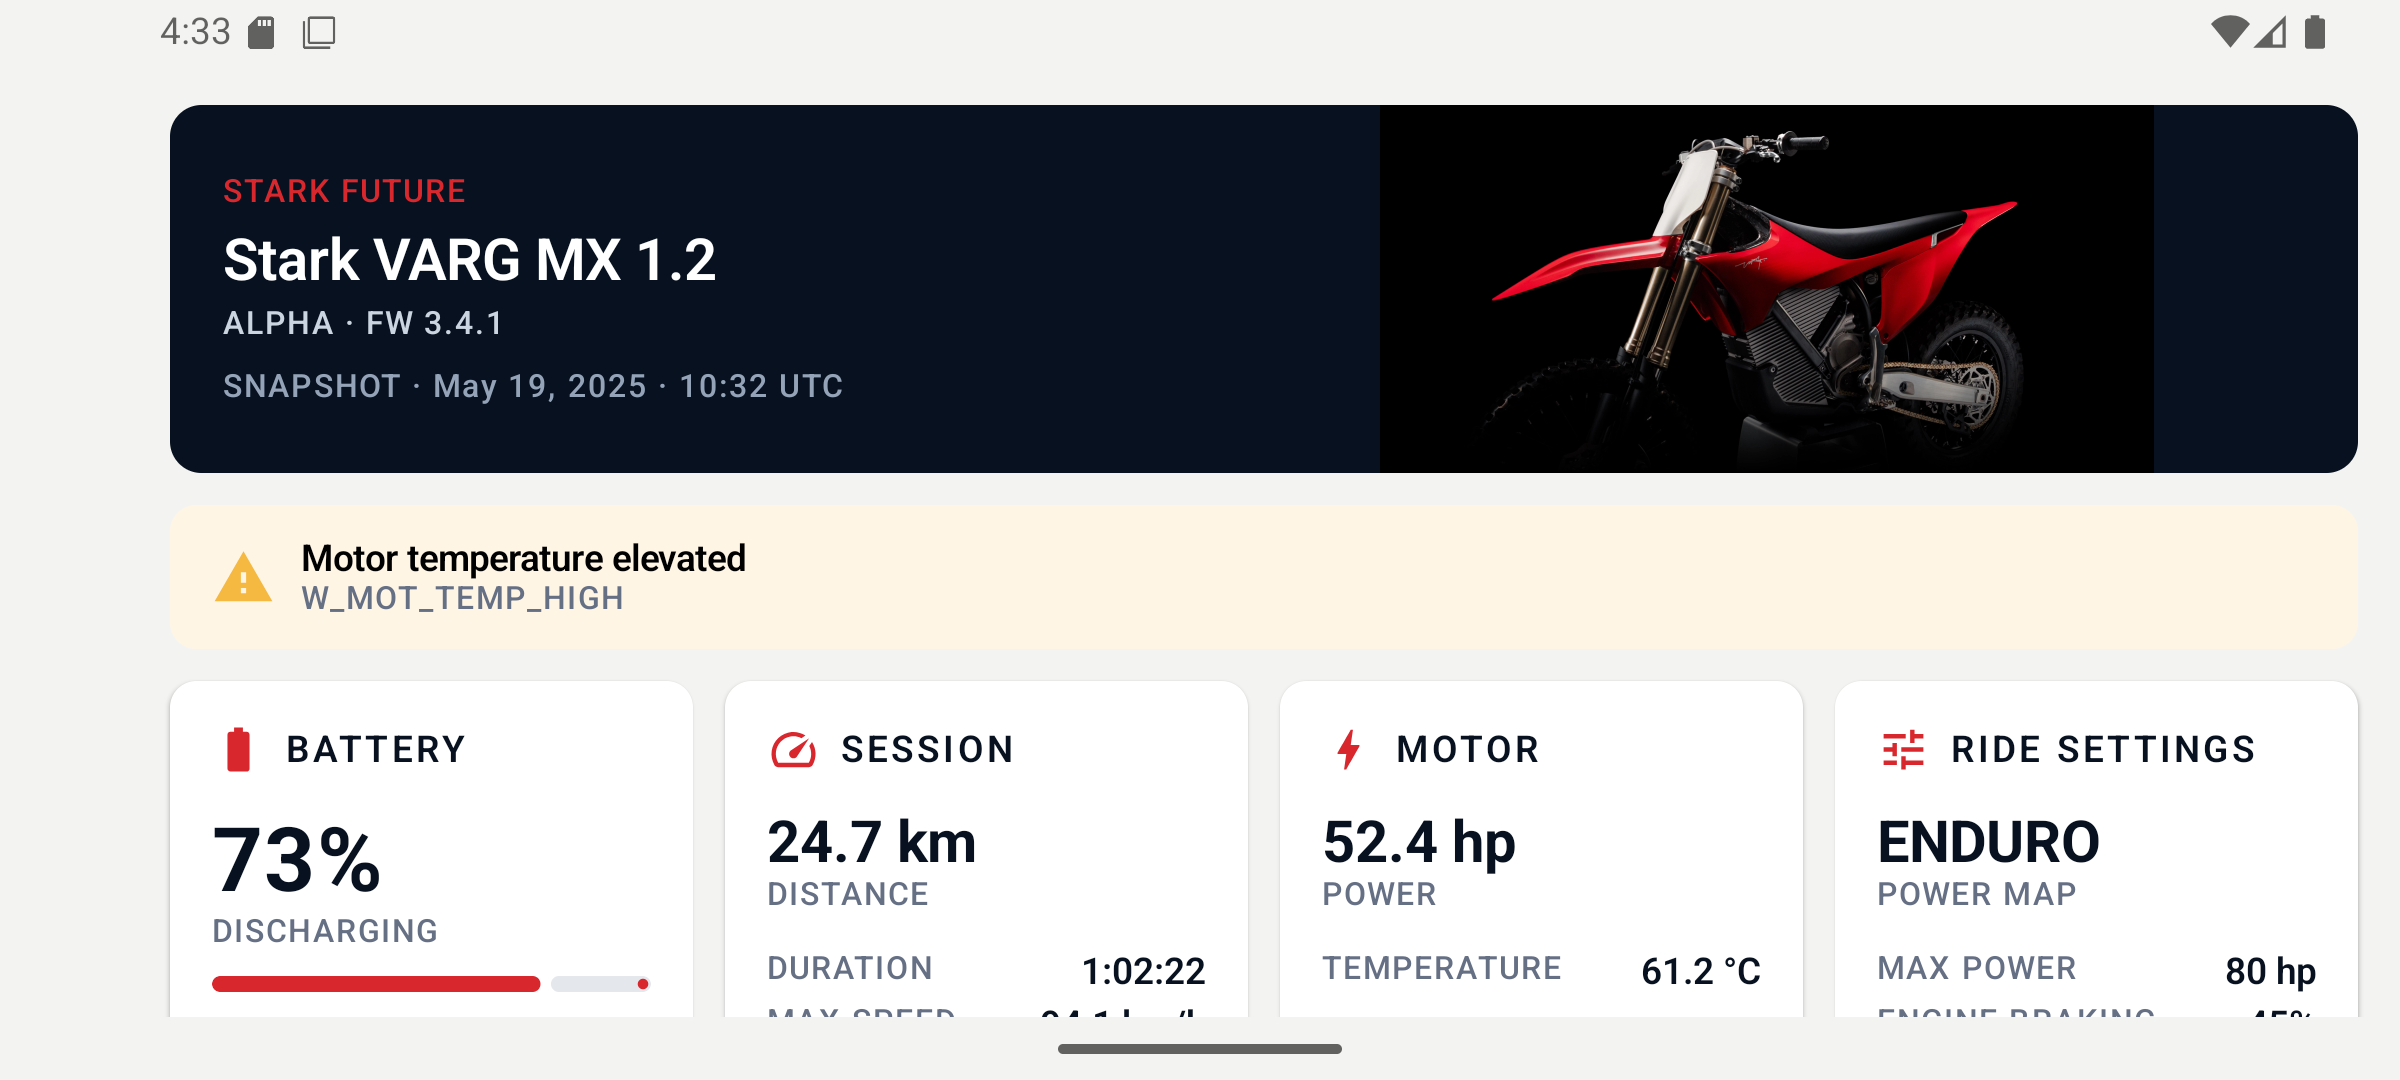
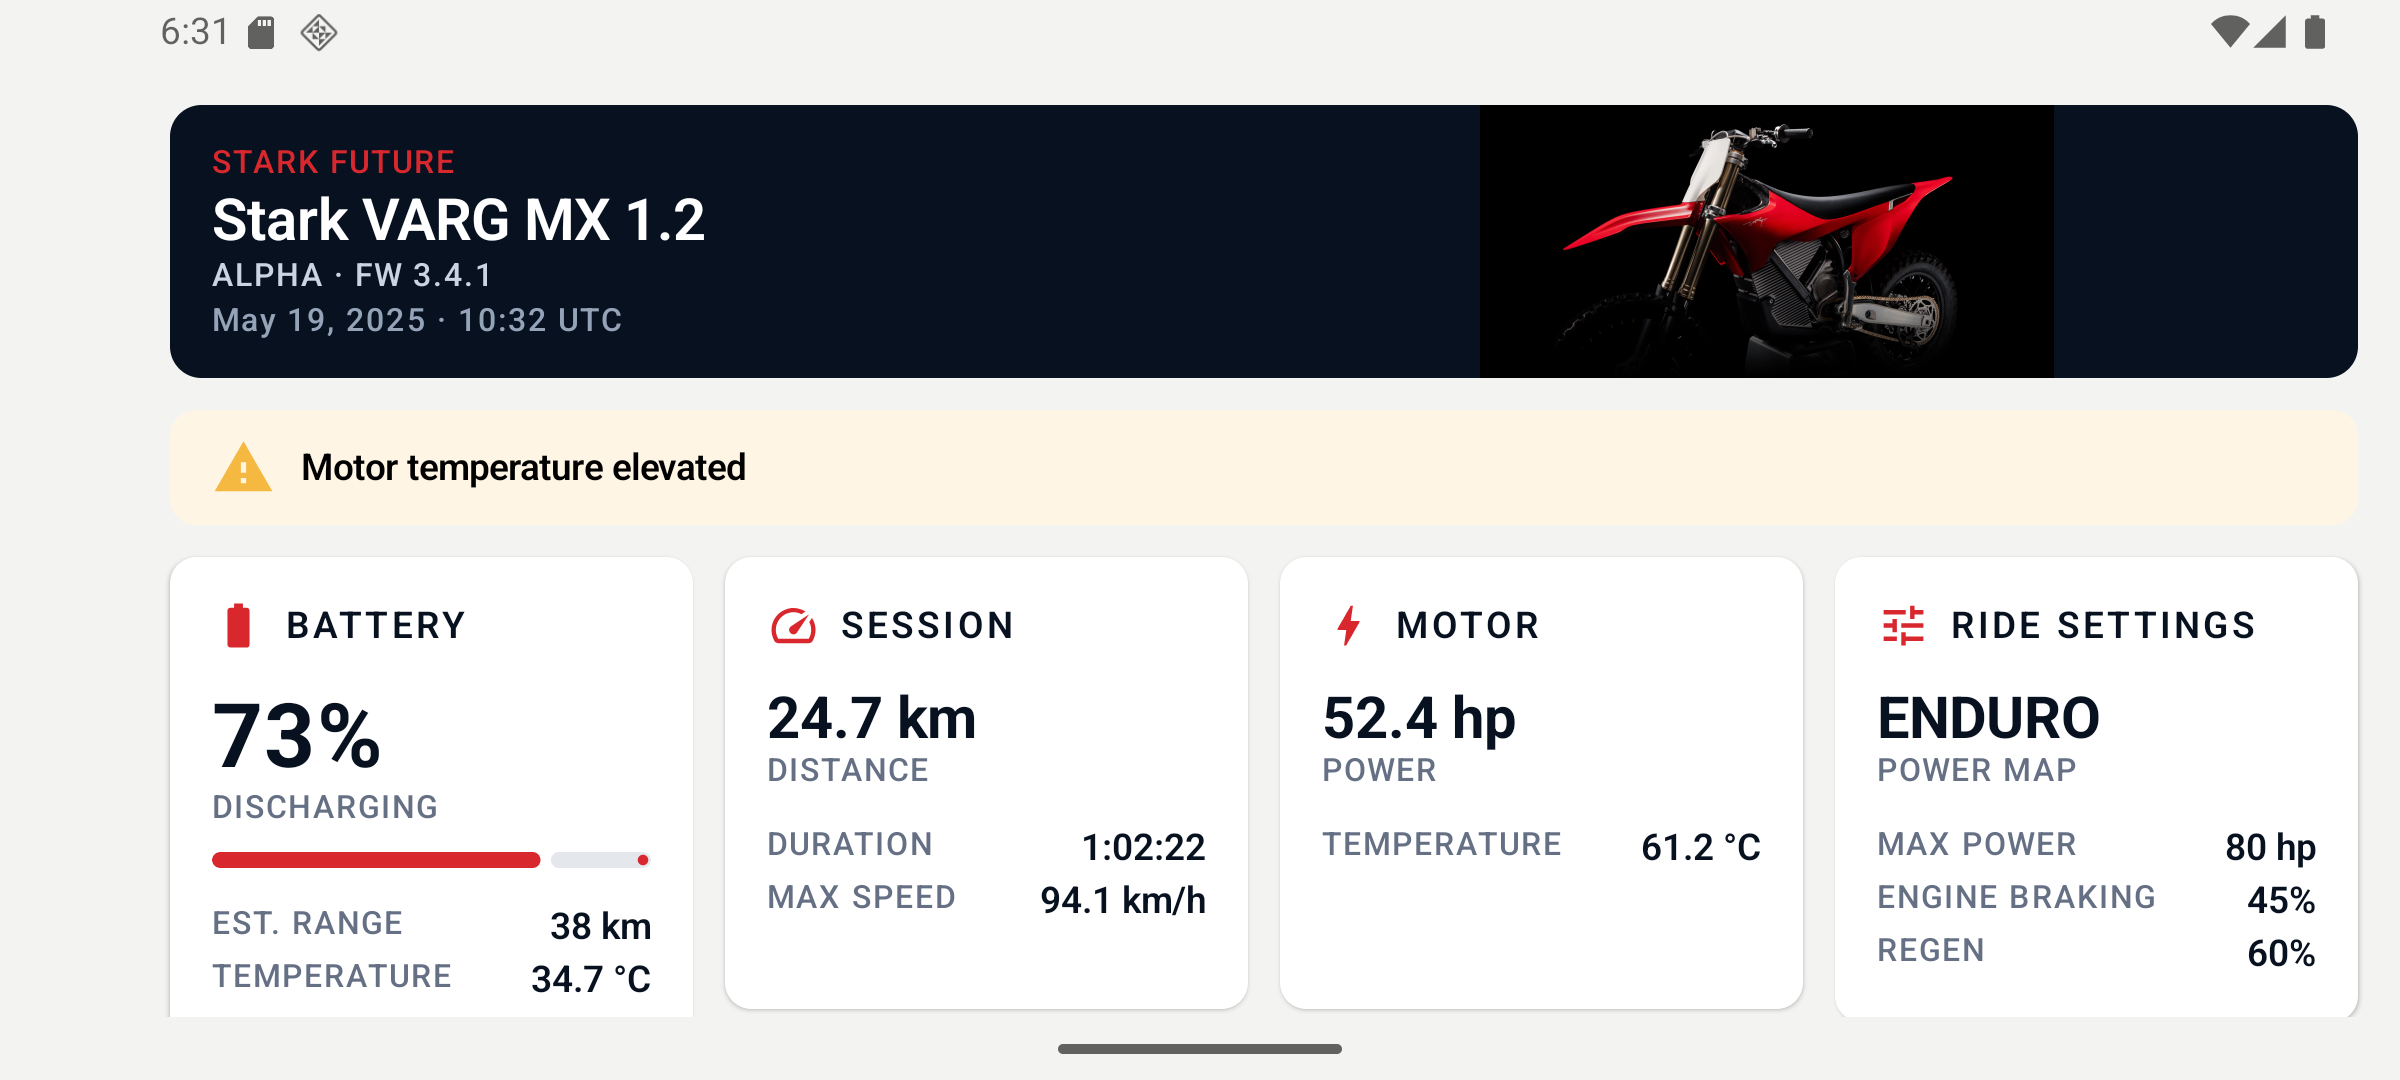
refactor: prioritize rider-facing telemetry

diff --git a/app/src/main/java/com/alextsy/starktelemetry/ui/dashboard/DashboardComponents.kt b/app/src/main/java/com/alextsy/starktelemetry/ui/dashboard/DashboardComponents.kt
@@ -62,7 +62,7 @@ fun BikeHero(
     compact: Boolean,
     modifier: Modifier = Modifier,
 ) {
-    val heroHeight = if (compact) 220.dp else 140.dp
+    val heroHeight = if (compact) 200.dp else 104.dp
     Card(
         modifier = modifier
             .fillMaxWidth()
@@ -76,7 +76,7 @@ fun BikeHero(
                     model = model,
                     variantAndFirmware = variantAndFirmware,
                     updatedAt = updatedAt,
-                    modifier = Modifier.padding(20.dp),
+                    modifier = Modifier.padding(horizontal = 16.dp, vertical = 10.dp),
                 )
                 HeroImage(
                     model = model,
@@ -95,7 +95,7 @@ fun BikeHero(
                     modifier = Modifier
                         .weight(0.46f)
                         .fillMaxHeight()
-                        .padding(20.dp),
+                        .padding(horizontal = 16.dp, vertical = 10.dp),
                 )
                 HeroImage(
                     model = model,
@@ -125,7 +125,7 @@ private fun HeroCopy(
             style = MaterialTheme.typography.labelMedium,
             color = StarkRed,
         )
-        Spacer(Modifier.height(6.dp))
+        Spacer(Modifier.height(2.dp))
         Text(
             text = model,
             style = MaterialTheme.typography.headlineSmall,
@@ -133,15 +133,15 @@ private fun HeroCopy(
             maxLines = 1,
             overflow = TextOverflow.Ellipsis,
         )
-        Spacer(Modifier.height(4.dp))
+        Spacer(Modifier.height(1.dp))
         Text(
             text = variantAndFirmware,
             style = MaterialTheme.typography.labelMedium,
             color = Color(0xFFCBD5E1),
         )
-        Spacer(Modifier.height(10.dp))
+        Spacer(Modifier.height(3.dp))
         Text(
-            text = "SNAPSHOT · $updatedAt",
+            text = updatedAt,
             style = MaterialTheme.typography.labelMedium,
             color = Color(0xFF94A3B8),
             maxLines = 1,
@@ -209,7 +209,7 @@ fun DiagnosticsPanel(
             Row(
                 modifier = Modifier
                     .fillMaxWidth()
-                    .padding(horizontal = 16.dp, vertical = 12.dp),
+                    .padding(horizontal = 16.dp, vertical = 10.dp),
                 verticalAlignment = Alignment.CenterVertically,
             ) {
                 Icon(Icons.Outlined.CheckCircle, contentDescription = null, tint = accent)
@@ -221,7 +221,7 @@ fun DiagnosticsPanel(
                 )
             }
         } else {
-            Column(Modifier.padding(horizontal = 16.dp, vertical = 12.dp)) {
+            Column(Modifier.padding(horizontal = 16.dp, vertical = 10.dp)) {
                 diagnostics.warnings.forEachIndexed { index, warning ->
                     if (index > 0) {
                         HorizontalDivider(
@@ -236,25 +236,24 @@ fun DiagnosticsPanel(
                             tint = warning.severity.color(),
                         )
                         Spacer(Modifier.width(10.dp))
-                        Column(Modifier.weight(1f)) {
-                            Text(
-                                text = warning.message,
-                                style = MaterialTheme.typography.bodyMedium,
-                                fontWeight = FontWeight.SemiBold,
-                            )
-                            Text(
-                                text = warning.code,
-                                style = MaterialTheme.typography.labelMedium,
-                                color = TelemetryMuted,
-                            )
-                        }
+                        Text(
+                            text = warning.message,
+                            modifier = Modifier.weight(1f),
+                            style = MaterialTheme.typography.bodyMedium,
+                            fontWeight = FontWeight.SemiBold,
+                        )
                     }
                 }
-                diagnostics.faultCodes.forEach { code ->
+                if (diagnostics.faultCodes.isNotEmpty()) {
                     Text(
-                        text = "FAULT · $code",
+                        text = if (diagnostics.faultCodes.size == 1) {
+                            "Bike fault detected"
+                        } else {
+                            "${diagnostics.faultCodes.size} bike faults detected"
+                        },
                         modifier = Modifier.padding(top = 8.dp),
-                        style = MaterialTheme.typography.labelMedium,
+                        style = MaterialTheme.typography.bodyMedium,
+                        fontWeight = FontWeight.SemiBold,
                         color = StarkRed,
                     )
                 }

diff --git a/app/src/androidTest/java/com/alextsy/starktelemetry/ui/dashboard/DashboardScreenTest.kt b/app/src/androidTest/java/com/alextsy/starktelemetry/ui/dashboard/DashboardScreenTest.kt
@@ -2,6 +2,7 @@ package com.alextsy.starktelemetry.ui.dashboard
 
 import androidx.compose.ui.test.assertIsDisplayed
 import androidx.compose.ui.test.junit4.createComposeRule
+import androidx.compose.ui.test.onAllNodesWithText
 import androidx.compose.ui.test.onNodeWithTag
 import androidx.compose.ui.test.onNodeWithText
 import androidx.compose.ui.test.performClick
@@ -38,6 +39,16 @@ class DashboardScreenTest {
         }
 
         assertDisplayed("ALPHA · FW 3.4.1", "Motor temperature elevated")
+        assertEquals(
+            0,
+            composeRule.onAllNodesWithText("SNAPSHOT", substring = true)
+                .fetchSemanticsNodes().size,
+        )
+        assertEquals(
+            0,
+            composeRule.onAllNodesWithText("W_MOT_TEMP_HIGH")
+                .fetchSemanticsNodes().size,
+        )
 
         composeRule.onNodeWithTag("dashboard").performScrollToIndex(2)
         assertDisplayed("73%", "38 km")

diff --git a/app/src/main/java/com/alextsy/starktelemetry/ui/dashboard/DashboardScreen.kt b/app/src/main/java/com/alextsy/starktelemetry/ui/dashboard/DashboardScreen.kt
@@ -66,7 +66,7 @@ fun DashboardScreen(
             DashboardUiState.Empty -> StateMessage(
                 icon = Icons.Outlined.Inbox,
                 title = "No telemetry available",
-                message = "The bike has not produced a telemetry snapshot yet.",
+                message = "The bike has not produced telemetry data yet.",
                 onRetry = { onIntent(DashboardIntent.RetryClicked) },
             )
             is DashboardUiState.Error -> StateMessage(

diff --git a/README.md b/README.md
@@ -1,17 +1,18 @@
 # Stark Telemetry
 
-A focused Android dashboard for a single Stark VARG telemetry snapshot. The app reads the assessment payload from `assets`, validates it in the domain layer, and presents a high-contrast cockpit designed for a phone mounted horizontally on an off-road motorcycle.
+A focused Android dashboard for a single Stark VARG telemetry snapshot. The app reads the assessment payload from `assets`, validates it in the domain layer, and presents a high-contrast telemetry overview designed for a phone mounted horizontally on an off-road motorcycle.
 
 ![Stark Telemetry dashboard](docs/images/stark-telemetry.png)
 
 ## What is implemented
 
-- Every field from the supplied snapshot: bike identity, firmware, timestamp, battery, motor, session, ride settings, warnings, and fault codes.
+- Every rider-facing section from the supplied snapshot: bike identity, firmware, timestamp, battery, motor, session, ride settings, warnings, and fault presence.
 - Explicit Loading, Content, Empty, and Error states with retry handling.
 - Fixed landscape orientation for the mounted-device use case.
 - Responsive 4/2/1-column Compose grid for large, medium, and narrow windows.
 - Remote bike image loading through Coil with a stable offline fallback; image failure never changes telemetry state.
 - Accessible 48dp retry target, semantic test tags, safe drawing insets, high contrast, and warning communication that does not depend on colour alone.
+- A compact first viewport prioritizes bike status and active warnings while the scrollable layout preserves readable detail on shorter screens.
 
 ## Architecture
 
@@ -65,7 +66,7 @@ The implementation was verified on a Pixel 6 AVD running API 36. Unit coverage i
 - The JSON contract represents exactly one current snapshot, not a history endpoint.
 - Blank input is Empty; malformed input, arrays, `null`, missing required fields, and invalid types are InvalidData. Unknown extra fields are tolerated.
 - Percentage values must be within `0..100`; time, distance, range, speed, and power must be non-negative. Temperature limits are not invented.
-- Empty warnings and fault codes represent a healthy Content state.
+- Empty warnings and fault codes represent a healthy Content state. Diagnostic codes stay in the model for logging/service workflows but are not exposed as rider-facing copy.
 - The assessment screenshots inform the cockpit hierarchy and restrained red accent, but are not copied as assets.
 - Sliders, save actions, charts, Bluetooth, Modes, Trails, Maps, history, and a live backend are intentionally outside the supplied contract.
 

diff --git a/docs/TEST_PLAN.md b/docs/TEST_PLAN.md
@@ -8,7 +8,7 @@
 | Reject invalid roots and fields | Blank, malformed, array, missing-field, wrong-type tests | Error/Empty previews |
 | Keep domain values valid | Use-case boundary tests for every validated measurement | Content values reviewed |
 | Model MVI transitions | Loading to Content/Empty/Error and retry tests | Loading/Error previews |
-| Display the complete payload | Compose happy-path test asserts representative data from every section | Pixel 6 screenshot and scrolling review |
+| Display the complete rider-facing payload | Compose happy-path test asserts representative data from every section and verifies technical labels are absent | Pixel 6 screenshot and scrolling review |
 | Retry from an error | Compose click test verifies `RetryClicked` | Error preview |
 | Remain landscape | Manifest configuration | Pixel 6 forced to portrait; Activity remained `SCREEN_ORIENTATION_LANDSCAPE` / `ROTATION_90` |
 | Stay useful offline | Image state is independent of dashboard state | Empty URL preview renders hero fallback with telemetry intact |
@@ -47,7 +47,7 @@
 
 ## Compose and device scenarios
 
-- Happy path asserts `73%`, `38 km`, `52.4 hp`, `24.7 km`, `94.1 km/h`, `ENDURO`, firmware, and the warning.
+- Happy path asserts `73%`, `38 km`, `52.4 hp`, `24.7 km`, `94.1 km/h`, `ENDURO`, firmware, and the warning. It also verifies that `SNAPSHOT` and the raw warning code are not displayed.
 - Error Retry dispatches exactly `DashboardIntent.RetryClicked`.
 - Content, healthy Content, Loading, Empty, and Error have dedicated Compose previews.
 - Manual Pixel 6 API 36 review checks contrast, spacing, scrolling, hero image, fallback behaviour, and absence of overlaps.

diff --git a/docs/DECISIONS.md b/docs/DECISIONS.md
@@ -28,7 +28,9 @@ The phone is physically mounted horizontally, while jumps and falls can produce 
 
 ## Hybrid cockpit visual language
 
-The dark hero anchors bike identity and image; off-white telemetry surfaces maximize daylight legibility. Stark red is reserved for identity and emphasis, while amber communicates diagnostics. Warnings also include icon, message, and code, so meaning is not colour-only. Dynamic colour and system dark mode are intentionally disabled to keep the mounted cockpit predictable.
+The compact dark hero anchors bike identity and image without displacing primary telemetry; off-white telemetry surfaces maximize daylight legibility. Stark red is reserved for identity and emphasis, while amber communicates diagnostics. Warnings include an icon and human-readable message, so meaning is not colour-only. Raw warning and fault codes remain available to logging or a future service screen but are intentionally hidden from the rider-facing overview. Dynamic colour and system dark mode are disabled to keep the mounted UI predictable.
+
+The payload is treated as one frame of an eventually continuous telemetry stream, but the absence of current speed means this is not presented as an at-speed instrument cluster. It is a detailed current overview intended primarily for inspection while stationary. The first viewport prioritizes status and warnings; scrolling is retained rather than sacrificing type size or accessibility on shorter windows.
 
 ## Hero image is non-critical data
 
